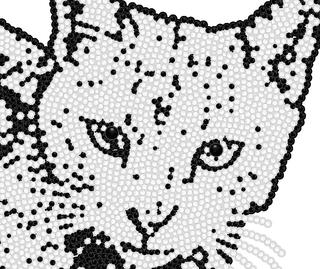
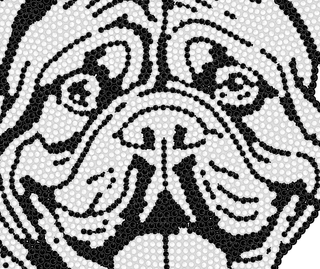
PN-04b: Black & white examples from the mastiff listing designs
public/examples/bw-bold.png and bw-shaded.png are now the same face crop of
mastiff-bw-stencil and mastiff-bw-halftone (320 x 269 px as before), made by
tools/make-bw-examples.mjs from data/listing/designs/. Spec section 10 and
header updated.

diff --git a/docs/IS-001-Spec.md b/docs/IS-001-Spec.md
@@ -33,6 +33,8 @@ Revised 26 Oct 2026 (PN-01): public name PatternNifty, domain patternnifty.com, 
 the laptop on patternnifty.com (15, 19). Revised 27 Oct 2026 (PN-03): logs in ~/Library/Logs/PatternNifty,
 outside the repo (12, 15, 18). Revised 27 Oct 2026 (PN-05): local control panel on 127.0.0.1:3010
 (15.1, 18). Revised 27 Oct 2026 (PN-06): section 13 limits enforced and tested (4.1, 13, 15.1).
+Revised 28 Oct 2026 (PN-04b): the Black & white example pictures are crops of the mastiff listing
+designs (10).
 
 Repository: `alexdruk/imagetostrass` (local: `/Users/alex/Documents/ImageToStrass`).
 Source of reused code: `alexdruk/Rhinestone-Studio` (RS), pinned at commit `38cd831` (17 Oct 2026).
@@ -586,8 +588,9 @@ Screens (one URL each, history API):
    "Black and clear stones mixed to show light and shade." (Bold chosen unless the previous
    settings say Shaded); "Designs left: N of 3"; button **Create design**. No size field. Under the
    photo, the expectations line (below). The example pictures (`public/examples/bw-bold.png`,
-   `bw-shaded.png`) are made by `tools/make-bw-examples.mjs` from the CC0 cat fixture without a
-   provider call: the same stones coloured as each style draws, shown with the tinted renderer.
+   `bw-shaded.png`) are made by `tools/make-bw-examples.mjs` without a provider call: the same crop
+   of the mastiff's face from the Etsy listing designs `mastiff-bw-stencil` and `mastiff-bw-halftone`
+   (PN-04a, `docs/listing/README.md`), their full-size tinted renders shown on white.
 3. **Working** `/c/<code>/working` — the four stage names with progress, queue position, "You can
    leave this page; your code is PN-XXXX-XXXX". Polls `GET /api/attempts/<code>/<n>` every 3 s.
 4. **Result** `/c/<code>/result/<n>` — Original | Tinted side by side on wide screens; at phone
